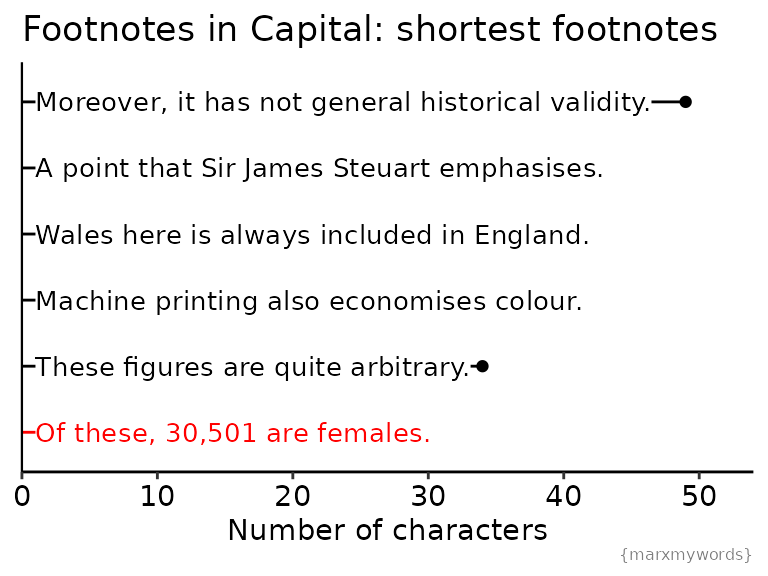
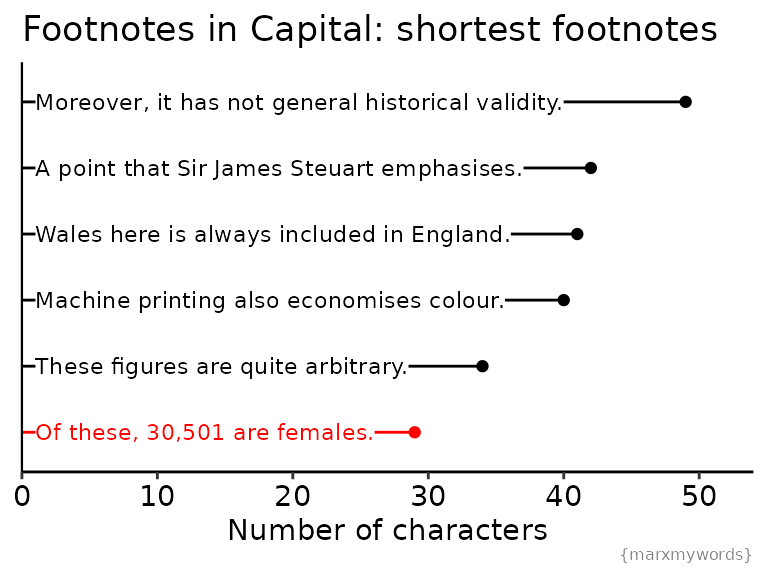
Built site for marxmywords: 0.0.0.1@318e435

diff --git a/articles/capital_footnotes.html b/articles/capital_footnotes.html
@@ -197,7 +197,7 @@ img {
     label.padding <span class="op">=</span> <span class="fu">unit</span><span class="op">(</span><span class="fl">0</span>, <span class="st">"cm"</span><span class="op">)</span>,
     hjust <span class="op">=</span> <span class="fl">0</span>,
     nudge_x <span class="op">=</span> <span class="fl">1</span>,
-    size <span class="op">=</span> <span class="fl">3.5</span>
+    size <span class="op">=</span> <span class="fl">3</span>
   <span class="op">)</span> <span class="op">+</span>
   <span class="fu">scale_color_manual</span><span class="op">(</span>values <span class="op">=</span> <span class="fu"><a href="https://rdrr.io/r/base/c.html" class="external-link">c</a></span><span class="op">(</span><span class="st">"red"</span>, <span class="fu"><a href="https://rdrr.io/r/base/rep.html" class="external-link">rep</a></span><span class="op">(</span><span class="st">"black"</span>, <span class="fl">5</span><span class="op">)</span><span class="op">)</span><span class="op">)</span> <span class="op">+</span>
   <span class="fu">scale_x_continuous</span><span class="op">(</span>expand <span class="op">=</span> <span class="fu"><a href="https://rdrr.io/r/base/c.html" class="external-link">c</a></span><span class="op">(</span><span class="fl">0</span>, <span class="fl">0</span>, <span class="fl">0.1</span>, <span class="fl">0.1</span><span class="op">)</span><span class="op">)</span> <span class="op">+</span>
